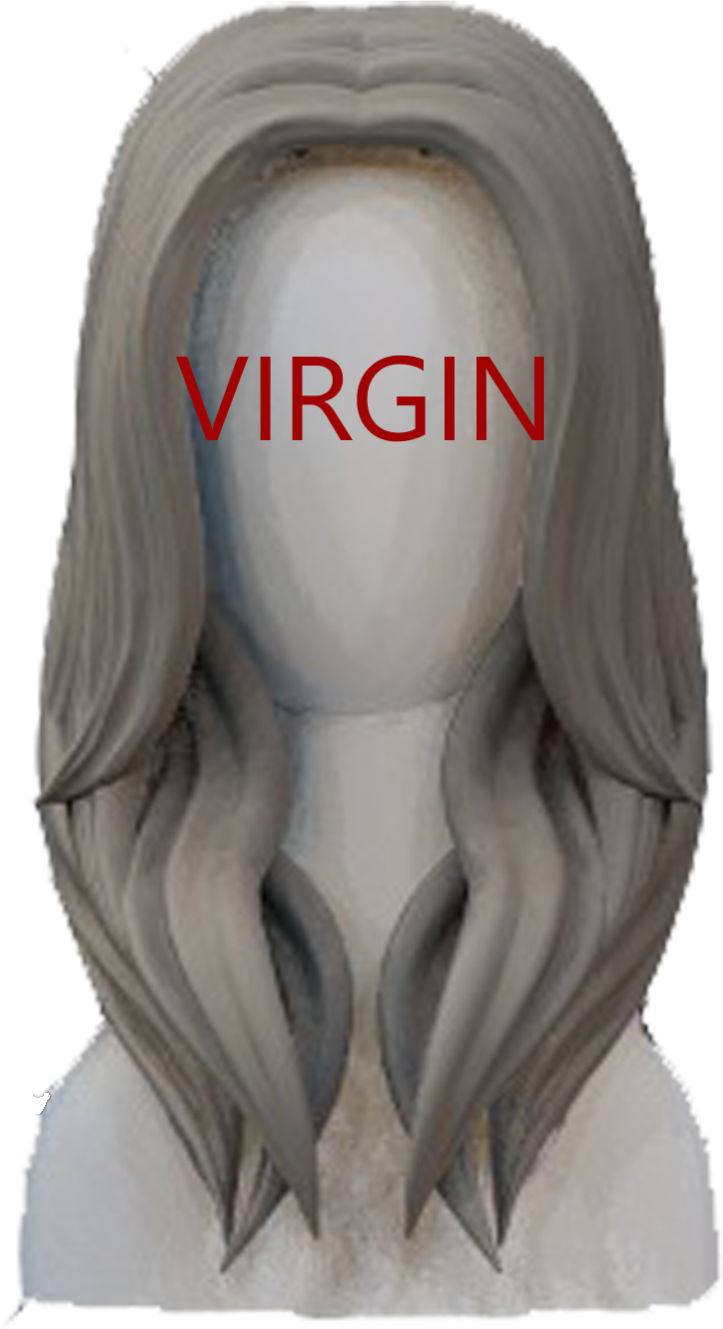
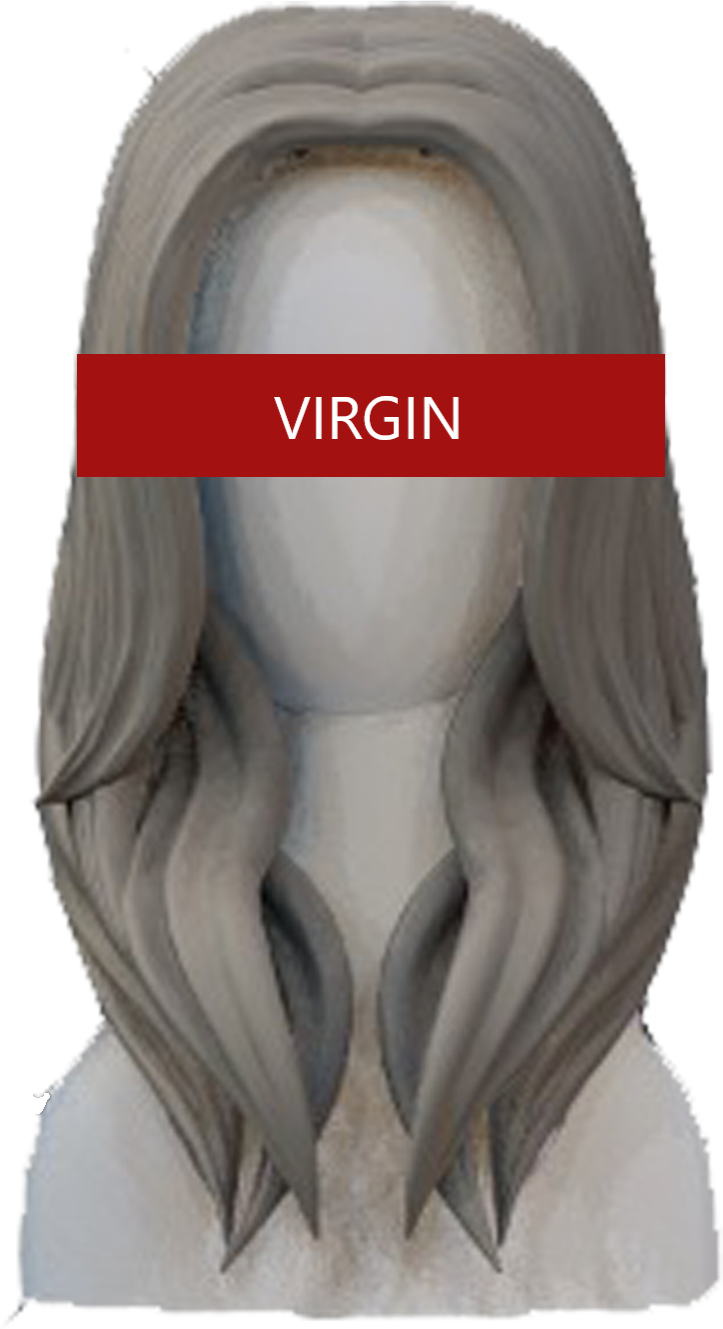
wigs title

Changed region(s): [[0.0913, 0.2468, 0.9433, 0.3702]]

diff --git a/src/components/Shelf.js b/src/components/Shelf.js
@@ -1,6 +1,6 @@
 /** @jsxRuntime classic */
 /** @jsx jsx */
-import { jsx, Box, Container, Button, Image } from "theme-ui";
+import { jsx, Box, Container, Button, Image, Text } from "theme-ui";
 import shelf from "assets/images/shelf.png";
 import { Link } from "components/link";
 
@@ -12,6 +12,7 @@ const Shelf = ({ data }) => {
           <Link path="/products/coming" label="">
             <Box sx={styles.wigs.imgWrapper} key={item.id}>
               <Image src={item.src} alt={item.alt} />
+              <Text sx={styles.wigs.imgWrapper.title}>{item.alt}</Text>
             </Box>
           </Link>
         ))}
@@ -43,7 +44,16 @@ const styles = {
     imgWrapper: {
       display: "grid",
       placeItems: "center",
-
+      position: "relative",
+      title: {
+        position: "absolute",
+        top: " 10px",
+        backgroundColor: "background",
+        fontSize: " 10px",
+        m: "0",
+        padding: " 0px 4px 0px 4px",
+        maxWidth: "50px",
+      },
       img: {
         width: "50%",
         mx: "auto",

diff --git a/src/pages/index.js b/src/pages/index.js
@@ -23,15 +23,15 @@ const data = {
     products: [
       {
         src: Wig2,
-        alt: "wig",
+        alt: "RAW",
       },
       {
         src: Wig1,
-        alt: "wig",
+        alt: "VIRGIN",
       },
       {
         src: Wig3,
-        alt: "wig",
+        alt: "613",
       },
     ],
     title: hdLace,
@@ -41,15 +41,15 @@ const data = {
     products: [
       {
         src: Wig5,
-        alt: "Transparent",
+        alt: "RAW",
       },
       {
         src: Wig4,
-        alt: "Transparent",
+        alt: "VIRGIN",
       },
       {
         src: Wig6,
-        alt: "Transparent",
+        alt: "613",
       },
     ],
     title: transparentLace,
@@ -59,15 +59,15 @@ const data = {
     products: [
       {
         src: Wig7,
-        alt: "Customized",
+        alt: "TRANSPARENT",
       },
       {
         src: Wig8,
-        alt: "Customized",
+        alt: "HD",
       },
       {
         src: Wig9,
-        alt: "Customized",
+        alt: "WATERCOLOR",
       },
     ],
     title: customWig,
